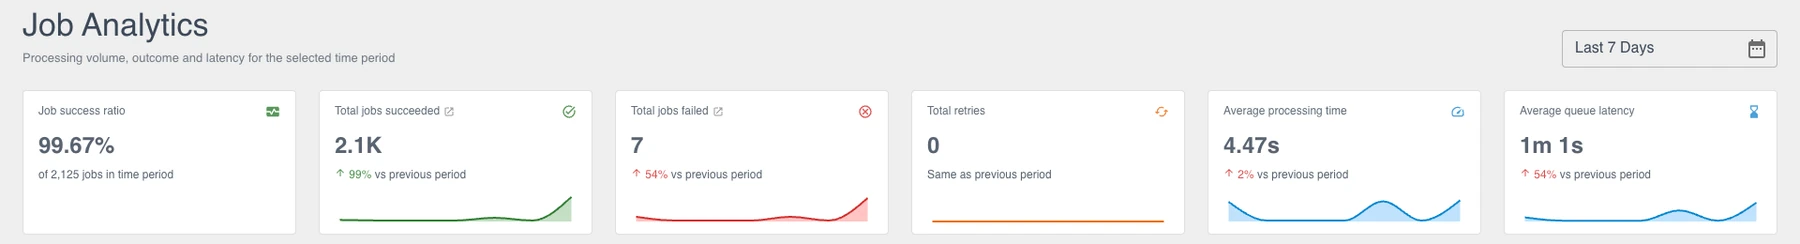
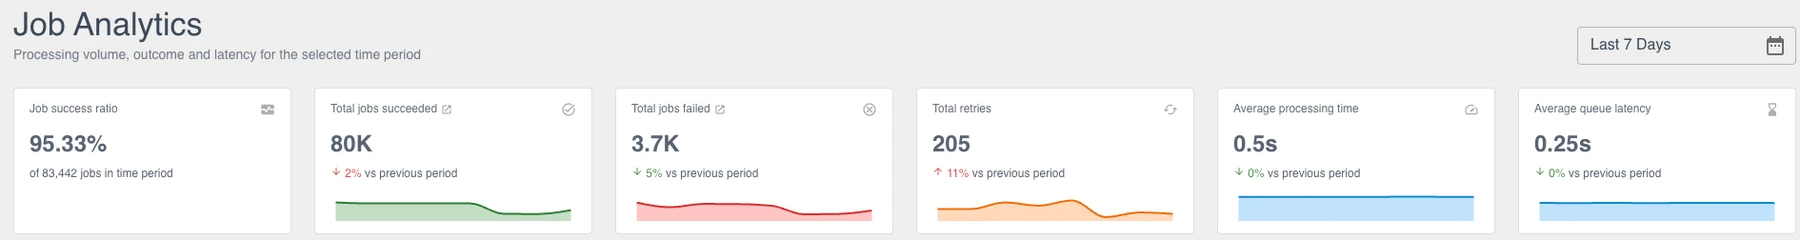
v9 release post: Job Analytics screenshots from Ronald's 7-day run, pause while enqueuing children

diff --git a/content/english/blog/v9-release.md b/content/english/blog/v9-release.md
@@ -77,21 +77,21 @@ When Prometheus shows the queue slowing down, Job Analytics is where you look up
 
 It lives on the home page of the JobRunr Pro dashboard. Our invoice run was over in less than four minutes, which is too short to draw a trend, so the screenshots in this section come from a test application that one of our developers had been running for a week. You pick a time period, here the last 7 days, and get six numbers. Each of them comes with a small sparkline and a comparison with the previous period:
 
-![](/blog/jobrunr-v9-job-analytics-kpis.webp "The top of Job Analytics for the last 7 days: 2,125 jobs, a success ratio of 99.67% and 7 failed jobs.")
+![](/blog/jobrunr-v9-job-analytics-kpis.webp "The top of Job Analytics for the last 7 days: 83,442 jobs, a success ratio of 95.33% and 3.7K failed jobs.")
 
-2,125 jobs ran that week and 7 of them failed. Seven is not a lot, but the arrow tells you it is 54% up on the previous period, and the average queue latency went up by the same amount. Those are the arrows you want to notice before your users do.
+83,442 jobs ran that week and 3.7K of them failed. The failures went down by 5% compared to the previous period, but the retries went up by 11%. Those are the arrows you want to notice before your users do.
 
 Below the numbers, the trend shows how many jobs succeeded and failed over the period, and the breakdown splits them by state, by server or by job signature:
 
 ![](/blog/jobrunr-v9-job-analytics-trend.webp "The job processing trend over a week, next to the processing breakdown per server.")
 
-In the server view the outer ring shows succeeded against failed, and the inner ring shows how the work was spread over the servers. The three servers in the legend are three runs of the same application on one laptop.
+You can spot the weekend right away: about 12,000 jobs a day during the week and about 5,000 on Saturday and Sunday. In the server view the outer ring shows succeeded against failed, and the inner ring shows how the work was spread over the servers. Here `server-1` picked up far less work than the other two.
 
 The table at the bottom answers the question you came for:
 
-![](/blog/jobrunr-v9-job-analytics-signatures.webp "Detailed analytics per job signature. All 7 failures come from one method.")
+![](/blog/jobrunr-v9-job-analytics-signatures.webp "Detailed analytics per job signature. One method never succeeds, another one causes the most failures.")
 
-All 7 failures come from one method, `TestService.doWorkThatFails()`, which failed every time it ran. The other job ran 2,118 times without a single failure, at 4.48 seconds on average. Click a job signature and you get a page for that job alone, with processing time split into succeeded and failed attempts, the fastest and the slowest run one click away from the actual job, and a tab with the exceptions that were thrown, how often and when last.
+`TestService.doWorkThatFails()` did not succeed once in 869 executions, so that one is easy to spot. The table also shows the one that is easy to miss. `TestService.doWorkThatTakesLong(int)` fails only 4.41% of the time, but over 41,945 executions that adds up to 1,849 failures, more than the other two methods together. Click a job signature and you get a page for that job alone, with processing time split into succeeded and failed attempts, the fastest and the slowest run one click away from the actual job, and a tab with the exceptions that were thrown, how often and when last.
 
 Some practical notes:
 
@@ -149,7 +149,7 @@ batchJobManager.pauseBatchJob(batchJobId);   // unstarted invoices wait, running
 batchJobManager.resumeBatchJob(batchJobId);
 ```
 
-Pausing has two limits. It does not interrupt child jobs that are already processing, and a batch job can only be paused once it has created all of its child jobs.
+Pausing does not interrupt child jobs that are already processing. If you press Pause while the batch job is still creating its child jobs, the dashboard tells you the job will be paused, and JobRunr pauses it as soon as all child jobs are enqueued.
 
 ### {{< badge version="professional" >}}JobRunr Pro{{< /badge >}} Jobs Start Within Milliseconds on Postgres, With Nothing to Configure
 
